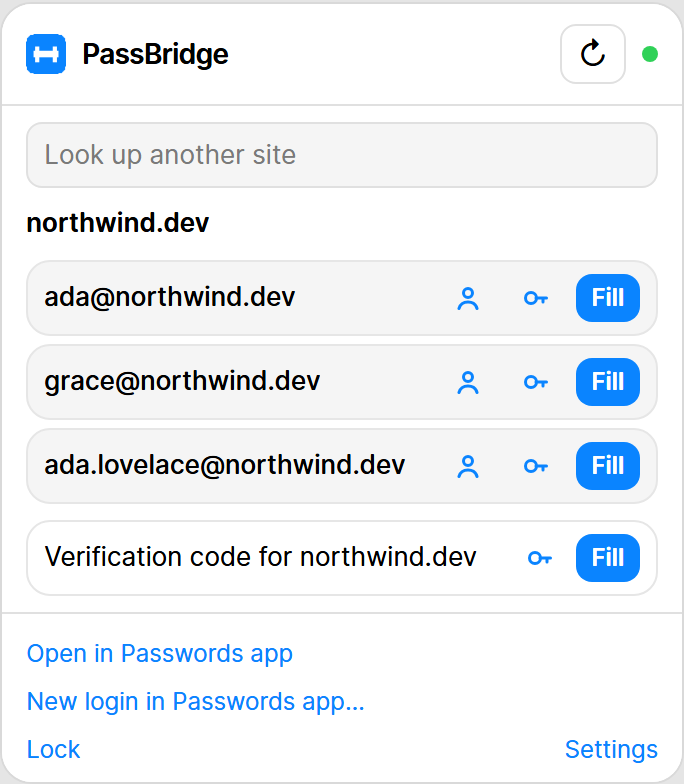
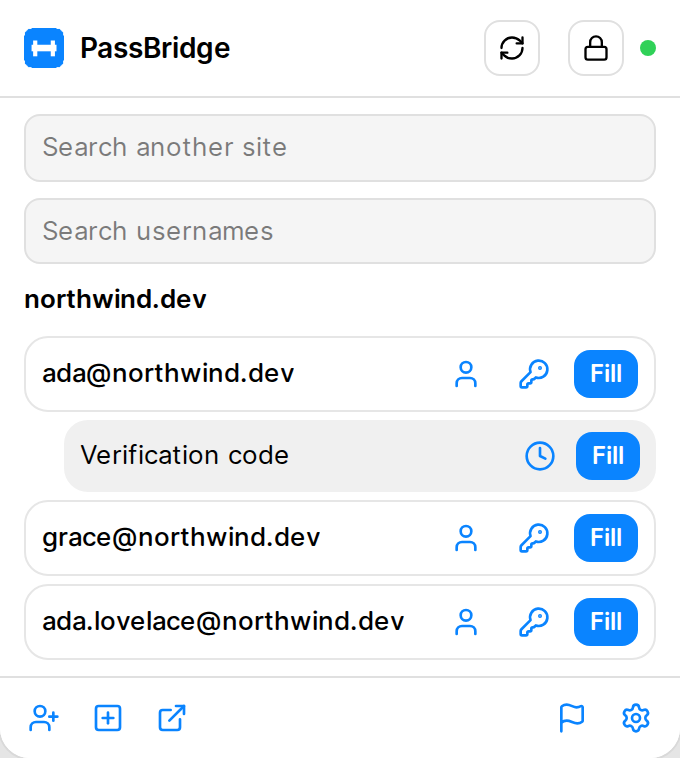
Retake the README screenshots from the current UI (#303) (#314)

diff --git a/test-harness/automation/shoot-readme.ts b/test-harness/automation/shoot-readme.ts
@@ -1,0 +1,90 @@
+// retakes the README screenshots in docs/images from the real extension and the simulated helper (no real account or data):
+// popup-light, popup-dark, inline-menu, save-bar. Run under a virtual display like the e2e drivers:
+//   xvfb-run -a node test-harness/automation/shoot-readme.ts      (OUT=<folder> writes somewhere else)
+import { mkdir, mkdtemp, rm } from "fs/promises";
+import { tmpdir } from "os";
+import { join } from "path";
+import { buildExtension } from "../../scripts/build.ts";
+import { HERE, chromium, main, ok, serveStatic } from "./lib.ts";
+import { pairFromMenu, startE2E } from "./e2e-lib.ts";
+import { seedVault } from "../fake-apple-helper/helper.ts";
+
+const OUT = process.env.OUT || join(HERE, "..", "..", "docs", "images");
+const SITE = "https://northwind.dev/";
+const PAGE = `<!doctype html><html lang="en"><title>Northwind</title><style>
+body{margin:0;padding:150px 48px 48px;background:#e6e4e1;font:16px -apple-system,Segoe UI,Roboto,Helvetica,Arial,sans-serif;color:#1c1917}
+.card{width:420px;margin:0 auto;background:#fff;border-radius:22px;padding:28px 28px 30px;box-shadow:0 10px 40px rgba(0,0,0,.08)}
+.brand{display:flex;align-items:center;gap:14px;font-size:24px;font-weight:700}
+.logo{width:44px;height:44px;border-radius:12px;background:#0a84ff;color:#fff;display:grid;place-items:center;font-size:22px}
+.sub{color:#57534e;margin:18px 0 130px}label{display:block;font-weight:600;margin:18px 0 8px}
+input{box-sizing:border-box;width:100%;padding:13px 14px;font-size:17px;border:1px solid #d6d3d1;border-radius:10px;background:#fff}
+input:focus{outline:none;border-color:#0a84ff;box-shadow:0 0 0 4px rgba(10,132,255,.18)}
+button{width:100%;margin-top:26px;padding:14px;font-size:18px;font-weight:700;color:#fff;background:#1c1917;border:0;border-radius:12px}
+</style><div class="card"><div class="brand"><div class="logo">N</div>Northwind</div>
+<p class="sub">Sign in with a saved account.</p>
+<form action="javascript:void(0)" method="post"><label for="u">Email</label><input id="u" name="username" type="text" autocomplete="username" placeholder="Email">
+<label for="p">Password</label><input id="p" name="password" type="password" autocomplete="current-password" placeholder="Password"><button type="submit">Continue</button></form></div>`;
+
+await main(async () => {
+  await mkdir(OUT, { recursive: true });
+  const vault = seedVault();
+  vault.logins = ["ada", "grace", "radia"].map((n) => ({ username: `${n}@northwind.dev`, password: `${n}-Pass-1`, sites: ["northwind.dev"] }));
+  vault.otps = [{ source: "totp", username: "ada@northwind.dev", domain: "northwind.dev", code: "246810" }];
+  const { ctx, helper } = await startE2E("mac", { vault });
+  await ctx.route(SITE + "**", (route) => route.fulfill({ contentType: "text/html", body: PAGE }));
+  await ctx.route("https://icons.duckduckgo.com/**", (route) => route.abort());
+
+  const page = await ctx.newPage();
+  await page.setViewportSize({ width: 560, height: 740 });
+  await page.goto(SITE, { waitUntil: "domcontentloaded" });
+  await page.waitForTimeout(400);
+  ok("paired", await pairFromMenu(page, helper, "#u"));
+
+  // inline menu: the field focused with its list open
+  await page.goto(SITE, { waitUntil: "domcontentloaded" });
+  await page.waitForTimeout(400);
+  await page.focus("#u");
+  await page.waitForTimeout(1500);
+  await page.screenshot({ path: join(OUT, "inline-menu.png"), clip: { x: 0, y: 0, width: 560, height: 740 } });
+
+  // save bar: a login the vault does not hold yet
+  const savePage = await ctx.newPage();
+  await savePage.setViewportSize({ width: 900, height: 600 });
+  await savePage.goto(SITE, { waitUntil: "domcontentloaded" });
+  await savePage.waitForTimeout(400);
+  await savePage.fill("#u", "kai@northwind.dev");
+  await savePage.fill("#p", "a-new-Pass-77");
+  await savePage.click("button[type=submit]");
+  let bar = null;
+  for (let i = 0; i < 40 && !bar; i++) {
+    bar = savePage.frames().find((f) => f.url().includes("overlay/save-bar.html") && f.url()) ?? null;
+    if (bar && !(await bar.locator("[data-action=save]:not([disabled])").count())) bar = null;
+    if (!bar) await savePage.waitForTimeout(150);
+  }
+  ok("save bar appears", !!bar);
+  if (bar) {
+    await savePage.waitForTimeout(500);
+    const box = (await bar.locator("#root > *").first().boundingBox())!;
+    await savePage.screenshot({ path: join(OUT, "save-bar.png"), clip: { x: box.x, y: box.y, width: box.width, height: box.height } });
+  }
+
+  // popup: the "readme" frame of the preview build (the real popup screen with demo data; the popup itself only runs in the toolbar)
+  const outDir = await mkdtemp(join(tmpdir(), "pb-preview-"));
+  const server = await (async () => {
+    await buildExtension({ out: outDir, preview: true, quiet: true });
+    return serveStatic(outDir);
+  })();
+  try {
+    const browser = await chromium.launch({ headless: true, locale: "en-US" });
+    for (const scheme of ["light", "dark"] as const) {
+      const pg = await browser.newPage({ viewport: { width: 700, height: 900 }, deviceScaleFactor: 2 });
+      await pg.goto(`${server.url}/src/preview.html`, { waitUntil: "networkidle" });
+      await pg.locator(`[data-screen="readme"][data-scheme="${scheme}"] [data-passbridge="popup"]`).screenshot({ path: join(OUT, `popup-${scheme}.png`) });
+      await pg.close();
+    }
+    await browser.close();
+  } finally {
+    await server.close();
+    await rm(outDir, { recursive: true, force: true }).catch(() => {});
+  }
+});

diff --git a/test-harness/automation/drive-ui-preview.ts b/test-harness/automation/drive-ui-preview.ts
@@ -24,7 +24,7 @@ await main(async () => {
       await page.goto(pageUrl, { waitUntil: "networkidle" });
       await page.screenshot({ path: join(SHOTS, "ui-preview.png"), fullPage: true });
       const count = await page.locator("[data-screen]").count();
-      ok("preview renders 12 screens (6 states x light/dark)", count === 12, `got ${count}`);
+      ok("preview renders 14 screens (7 states x light/dark)", count === 14, `got ${count}`);
       const lightness = (css: string) => {
         const channels = (css.match(/[\d.]+/g) || []).map(Number).slice(0, 3);
         return (css.startsWith("color(") ? channels.map((v) => v * 255) : channels).reduce((sum, v) => sum + v, 0) / 3;

diff --git a/src/ui/preview.jsx b/src/ui/preview.jsx
@@ -28,6 +28,18 @@ const screens = [
     },
   ],
   [
+    // the README screenshots (docs/images/popup-*.png, test-harness/automation/shoot-readme.ts)
+    "readme",
+    {
+      state: "unlocked",
+      site: "northwind.dev",
+      showFavicons: false,
+      logins: [{ username: "ada@northwind.dev" }, { username: "grace@northwind.dev" }, { username: "ada.lovelace@northwind.dev" }],
+      codes: [{ id: 0, source: "totp", domain: "northwind.dev", username: "ada@northwind.dev" }],
+      caps: { newPasswordSheet: true },
+    },
+  ],
+  [
     "grouped_codes",
     {
       state: "unlocked",

diff --git a/test-harness/automation/README.md b/test-harness/automation/README.md
@@ -69,6 +69,8 @@ Env vars, all optional:
 
 | `drive-e2e-*.ts` | `real-mac`, `real-win` | The real extension (no mock client) against the simulated Apple helper in `test-harness/fake-apple-helper`, on both platforms: pairing, fill and save, codes, passkeys (win), denied or unanswered approval and relogin, and the agent relay. No Apple account and no person. |
 
+`shoot-readme.ts` is not a test: it retakes the README screenshots in `docs/images` (popup from the preview build, inline menu and save bar from the real extension against the simulated helper). Run it under `xvfb-run -a`; `OUT=<folder>` writes elsewhere.
+
 ## End to end against the simulated helper
 
 `build-test-extensions.ts` also builds `.builds/real-mac` and `.builds/real-win`: the production code with an empty mock
